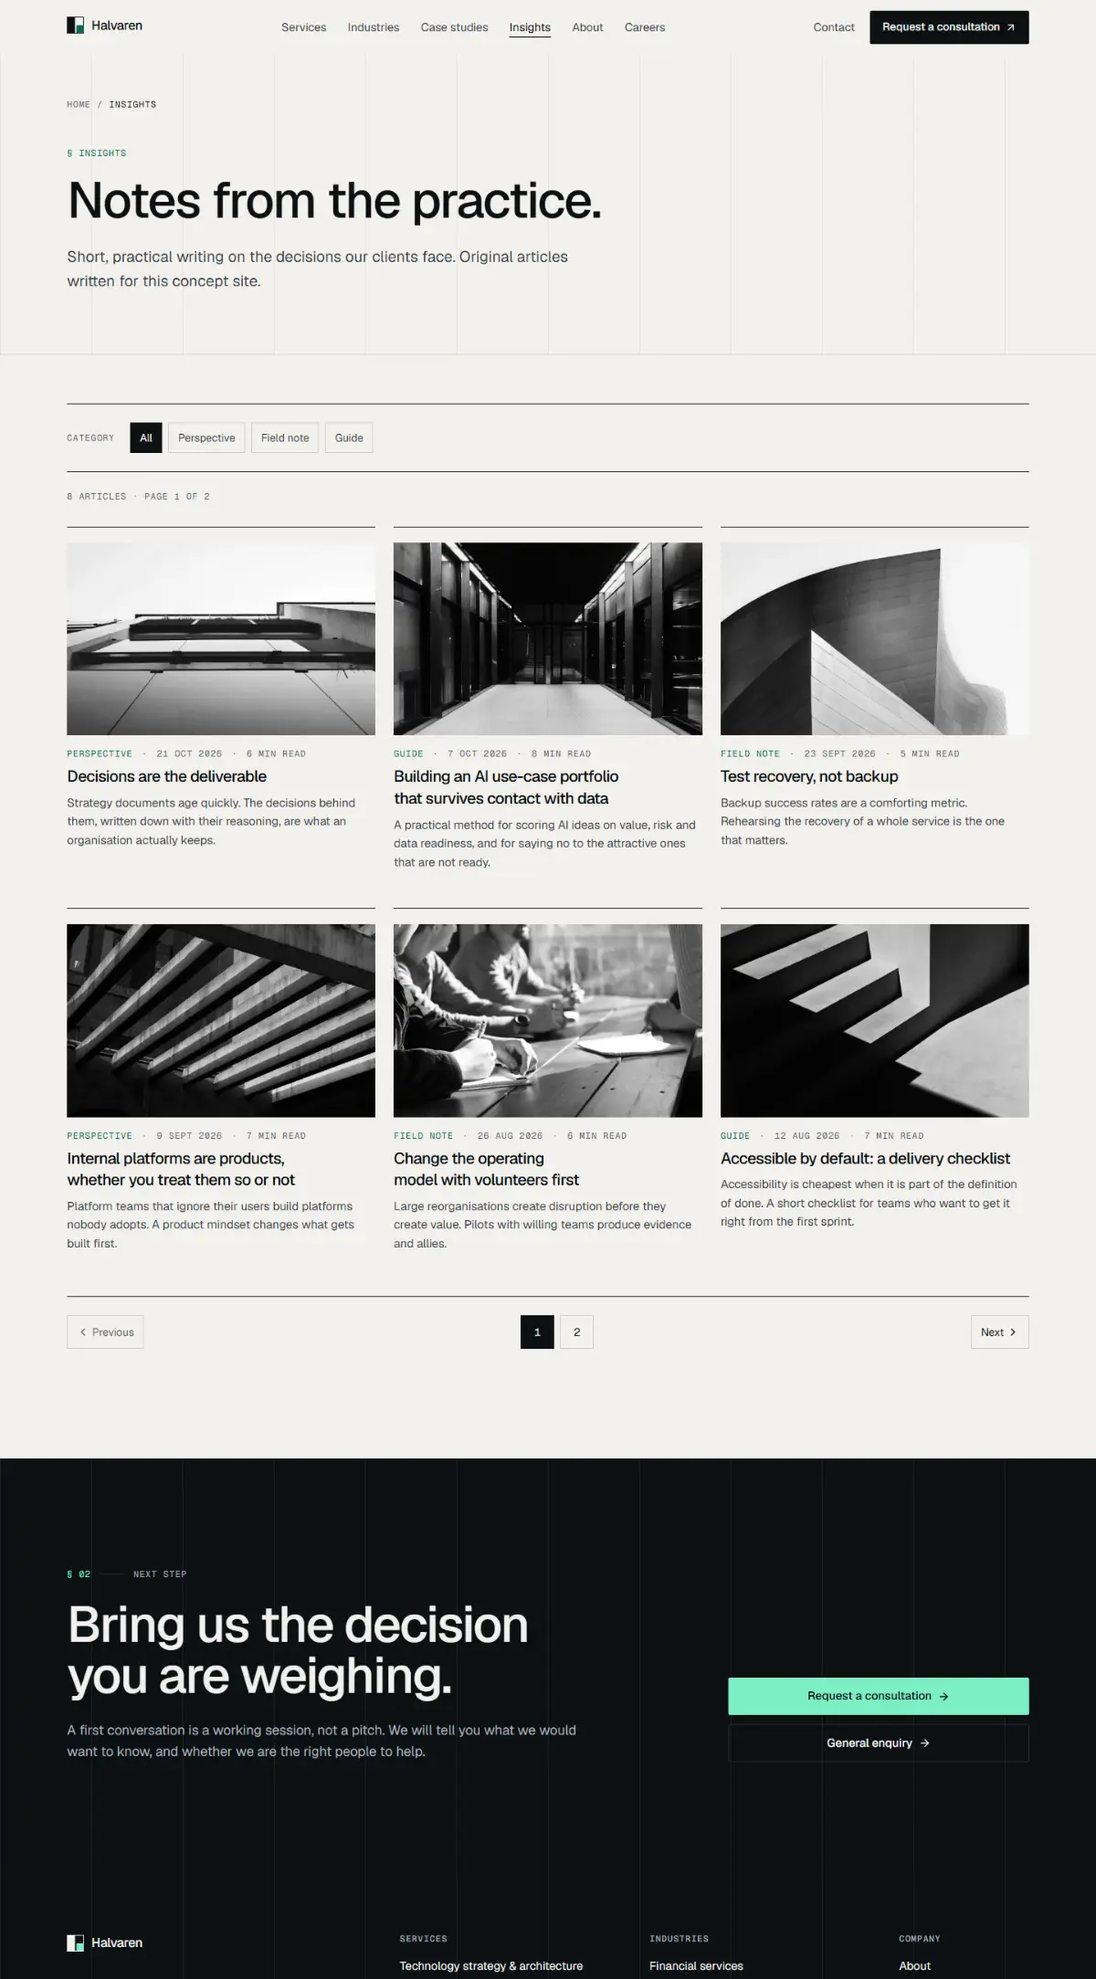
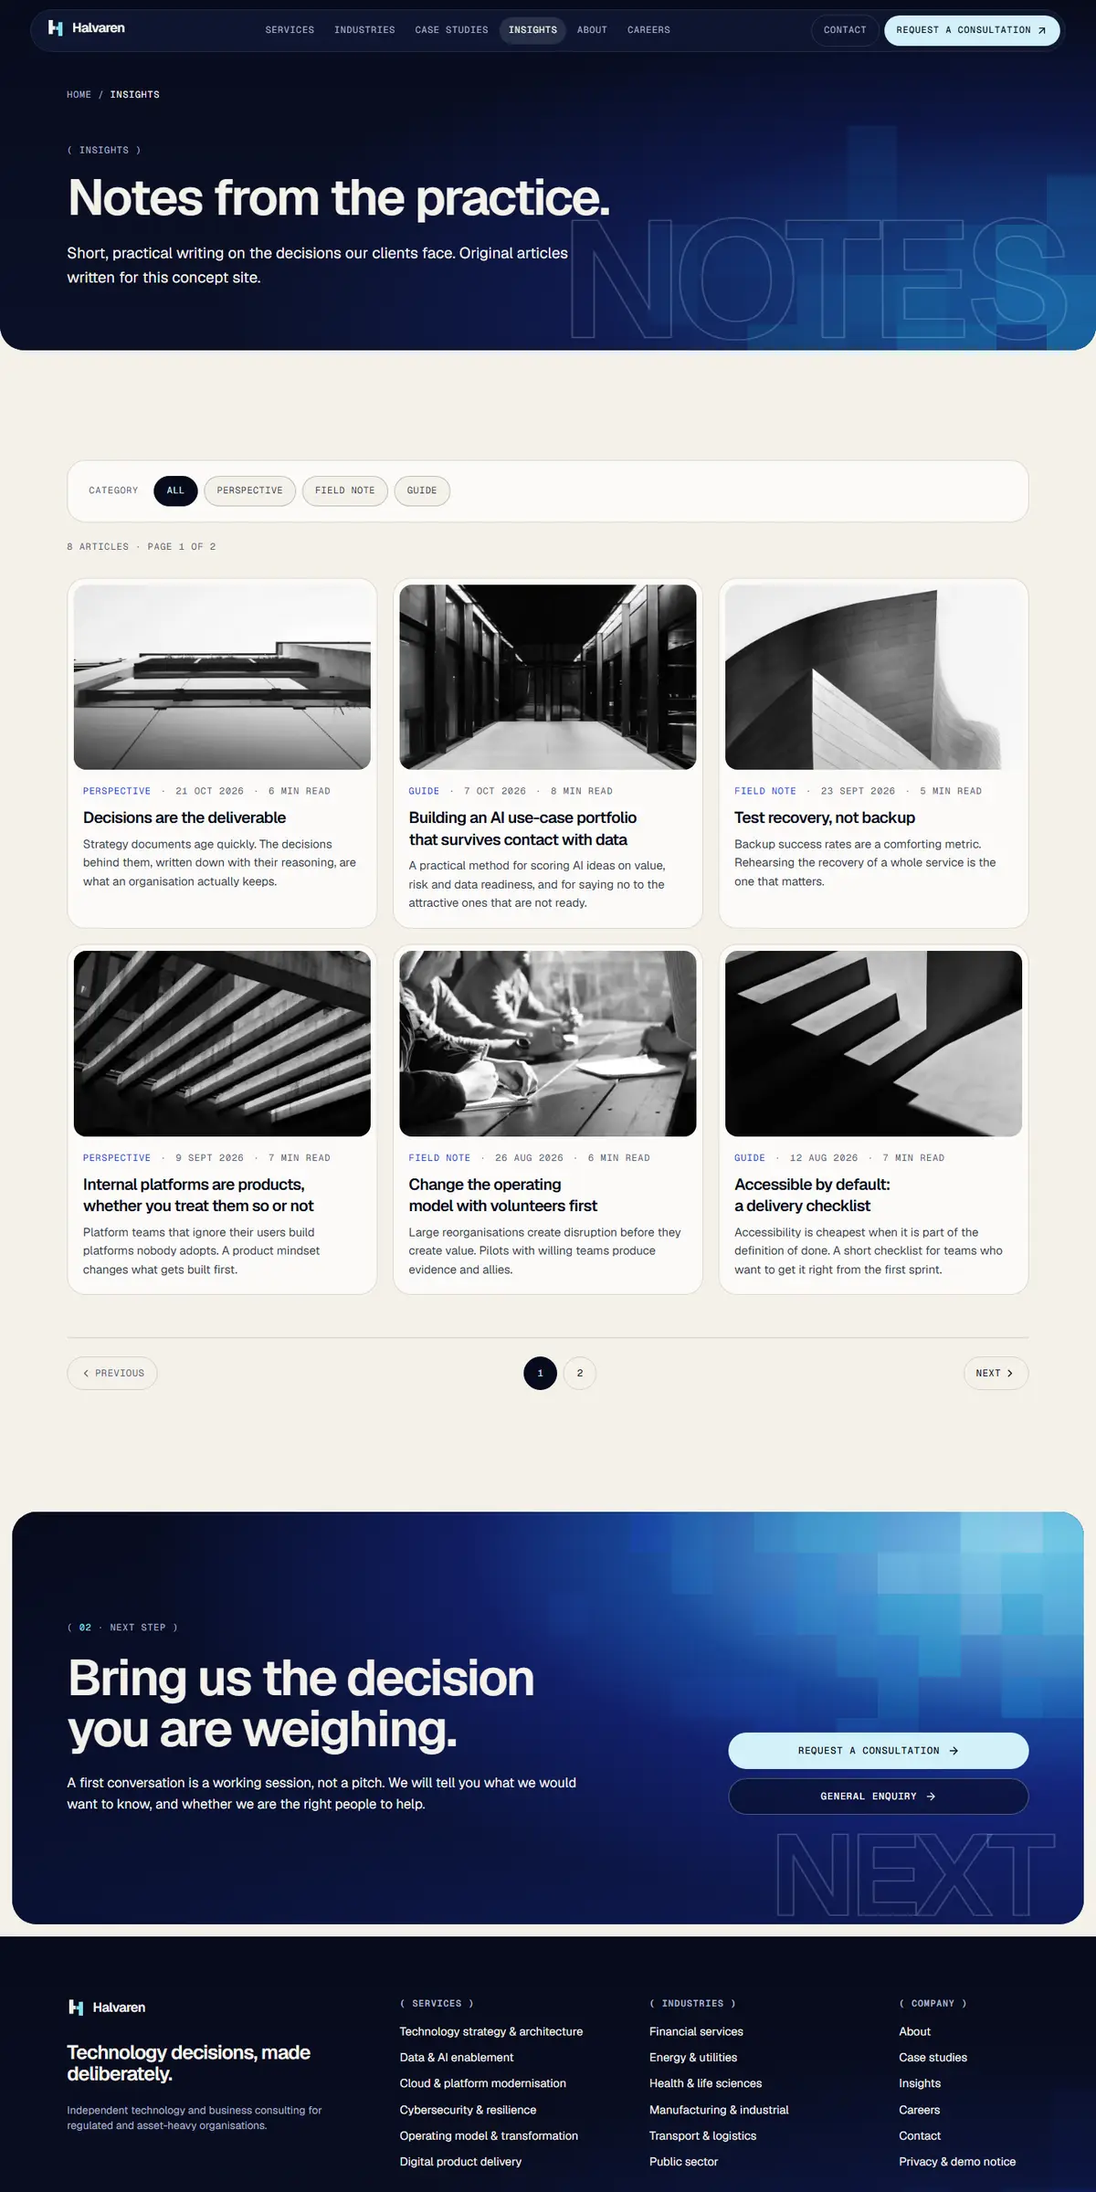
Refresh screenshots, docs and image sizing for the Aurora Ledger theme
Caps next/image deviceSizes at the 1400 px sources, raises micro labels to 12 px, shortens the Home meta description, replaces the portfolio screenshots and records slice 2 checks in the report and handoff.

diff --git a/components/layout/site-header.tsx b/components/layout/site-header.tsx
@@ -109,7 +109,7 @@ export function SiteHeader() {
                   <Link
                     href={item.href}
                     aria-current={active ? "page" : undefined}
-                    className={`inline-flex rounded-full px-3 py-2 font-mono text-[0.74rem] uppercase tracking-[0.07em] transition-colors ${
+                    className={`inline-flex rounded-full px-3 py-2 font-mono text-[0.75rem] uppercase tracking-[0.07em] transition-colors ${
                       active ? "bg-ice/12 text-paper" : "text-mist hover:text-paper"
                     }`}
                   >
@@ -124,7 +124,7 @@ export function SiteHeader() {
         <div className="flex items-center gap-1.5">
           <Link
             href="/contact"
-            className={`hidden rounded-full border px-4 py-2.5 font-mono text-[0.74rem] uppercase tracking-[0.07em] transition-colors lg:inline-flex ${
+            className={`hidden rounded-full border px-4 py-2.5 font-mono text-[0.75rem] uppercase tracking-[0.07em] transition-colors lg:inline-flex ${
               isActive(pathname, "/contact") ? "border-ice/40 text-paper" : "border-ice/15 text-mist hover:border-ice/40 hover:text-paper"
             }`}
             aria-current={isActive(pathname, "/contact") ? "page" : undefined}
@@ -133,7 +133,7 @@ export function SiteHeader() {
           </Link>
           <Link
             href="/consultation"
-            className="group hidden items-center gap-1.5 rounded-full bg-ice px-4 py-2.5 font-mono text-[0.74rem] font-medium uppercase tracking-[0.07em] text-ink transition-colors hover:bg-paper sm:inline-flex"
+            className="group hidden items-center gap-1.5 rounded-full bg-ice px-4 py-2.5 font-mono text-[0.75rem] font-medium uppercase tracking-[0.07em] text-ink transition-colors hover:bg-paper sm:inline-flex"
           >
             Request a consultation
             <ArrowUpRight aria-hidden="true" className="size-4 transition-transform group-hover:-translate-y-0.5 group-hover:translate-x-0.5" />

diff --git a/components/ui/primitives.tsx b/components/ui/primitives.tsx
@@ -103,7 +103,7 @@ export function Plate({
 export function Tag({ children, dark = false }: { children: ReactNode; dark?: boolean }) {
   return (
     <span
-      className={`inline-flex items-center rounded-full border px-2.5 py-1 font-mono text-[0.7rem] uppercase tracking-[0.06em] ${
+      className={`inline-flex items-center rounded-full border px-2.5 py-1 font-mono text-[0.75rem] uppercase tracking-[0.06em] ${
         dark ? "border-rule-dark text-mist" : "border-rule text-graphite"
       }`}
     >
@@ -114,7 +114,7 @@ export function Tag({ children, dark = false }: { children: ReactNode; dark?: bo
 
 export function IllustrativeBadge({ long = false }: { long?: boolean }) {
   return (
-    <span className="inline-flex items-center gap-1.5 rounded-full bg-ink px-2.5 py-1 font-mono text-[0.7rem] uppercase tracking-[0.06em] text-phosphor">
+    <span className="inline-flex items-center gap-1.5 rounded-full bg-ink px-2.5 py-1 font-mono text-[0.75rem] uppercase tracking-[0.06em] text-phosphor">
       <FlaskConical aria-hidden="true" className="size-3.5" />
       {long ? "Illustrative scenario — not a real client" : "Illustrative scenario"}
     </span>

diff --git a/components/sections/roles-accordion.tsx b/components/sections/roles-accordion.tsx
@@ -29,7 +29,7 @@ export function RolesAccordion({ roles }: { roles: Role[] }) {
               >
                 <span className="text-[1.3rem] leading-tight tracking-[-0.02em] md:text-[1.5rem]">
                   {r.title}
-                  <span className="ml-3 inline-block rounded-full bg-ink px-2 py-0.5 align-middle font-mono text-[0.68rem] uppercase tracking-[0.06em] text-ice">
+                  <span className="ml-3 inline-block rounded-full bg-ink px-2 py-0.5 align-middle font-mono text-[0.75rem] uppercase tracking-[0.06em] text-ice">
                     Demo role
                   </span>
                 </span>

diff --git a/components/layout/site-footer.tsx b/components/layout/site-footer.tsx
@@ -81,7 +81,7 @@ export function SiteFooter() {
         <div className="mt-6 grid gap-4 border-t border-rule-dark pt-6 text-sm text-mist md:grid-cols-[1fr_auto] md:items-end">
           <div>
             <p className="font-medium text-paper">
-              <span className="mr-2 inline-block rounded-full bg-ice px-2 py-0.5 font-mono text-[0.7rem] uppercase tracking-[0.08em] text-ink">
+              <span className="mr-2 inline-block rounded-full bg-ice px-2 py-0.5 font-mono text-[0.75rem] uppercase tracking-[0.08em] text-ink">
                 Concept
               </span>
               {site.conceptNotice}

diff --git a/app/page.tsx b/app/page.tsx
@@ -20,7 +20,7 @@ export const metadata: Metadata = {
   ...pageMetadata({
     title: "Independent technology & business consulting",
     description:
-      "Halvaren (a fictional VIZAM concept firm) helps regulated and asset-heavy organisations make technology decisions deliberately: strategy, data and AI, cloud, resilience and delivery.",
+      "Halvaren, a fictional VIZAM concept firm, helps regulated and asset-heavy organisations make technology decisions deliberately.",
     path: "/",
   }),
   title: { absolute: `${site.name} — ${site.tagline}` },

diff --git a/app/globals.css b/app/globals.css
@@ -39,7 +39,7 @@
   --text-display--line-height: 1;
   --text-h2: clamp(1.75rem, 3.2vw, 2.75rem);
   --text-h2--line-height: 1.06;
-  --text-micro: 0.72rem;
+  --text-micro: 0.75rem;
   --text-micro--line-height: 1.4;
 
   --radius-card: 1.5rem;
@@ -146,7 +146,7 @@
 
   .mono-label {
     font-family: var(--font-mono);
-    font-size: 0.72rem;
+    font-size: 0.75rem;
     line-height: 1.4;
     letter-spacing: 0.08em;
     text-transform: uppercase;

diff --git a/next.config.ts b/next.config.ts
@@ -31,6 +31,9 @@ const nextConfig: NextConfig = {
   poweredByHeader: false,
   images: {
     formats: ["image/avif", "image/webp"],
+    // Never advertise a width above the largest source photo (1400 px): a larger srcset candidate would be
+    // served at 1400 px anyway while the browser assumes it is bigger.
+    deviceSizes: [480, 640, 750, 828, 1080, 1200, 1400],
   },
   turbopack: {
     rules: {

diff --git a/docs/report.md b/docs/report.md
@@ -10,8 +10,11 @@ concept, not a client commission._
 - **Content:** typed local content in `lib/content` (services, industries, case studies, insights, careers, images), CMS-ready,
   no CMS connected. 42 static pages, plus sitemap, robots, a generated Open Graph image and JSON-LD.
 - **Forms:** `lib/forms` holds Zod schemas, server actions and shared processing (honeypot, timing check, rate limit, validation).
-- **Design:** original direction, no external reference (see `docs/design-direction.md`, `docs/plan.md`). Porcelain-and-ink
-  palette, one phosphor accent, visible coordinate grid, mono section indices, "decision records" as the signature component.
+- **Design (theme 2, "Aurora Ledger", branch `vizam/theme-refresh`):** midnight base with cobalt-teal-ice gradient and pixel-mosaic
+  fields (`GradientField`), warm paper sections, huge tight headings, mono bracket labels, ghost numerals, rounded bento cards,
+  floating pill navigation, split-H monogram, "decision records" as the signature component. Every page uses the same primitives
+  with its own composition (aurora headers on Home, About, Services, Case studies, Consultation and 404; ink headers elsewhere;
+  light header on Privacy and articles). Spec: `docs/design-direction.md`. Theme 1 (porcelain and phosphor) is superseded.
   No logos, testimonials or statistics are shown, because none exist. Photography: Unsplash only (public repo), WebP only,
   credited in `docs/media-credits.md`. No video, voice or AI images.
 - **Layout rule:** below 250 px the layout locks at 500 px and pans (`#root` in `app/layout.tsx`), as required by project rules.
@@ -22,7 +25,28 @@ All planned pages and components are built, tested and committed on the build br
 sign-off are done (verdict: SIGN-OFF, see section 4). Not yet done: integration into `vizam/initial-build`, push, PR, Vercel preview, and any deploy.
 Lighthouse / performance measurement has **not** been run.
 
-## 3. Checks (run 2026-11-06, real output, Slice 1)
+## 3a. Checks, theme refresh slice 2 (2026-11-08, branch `vizam/theme-refresh`, real output)
+
+| Check | Command | Result |
+|---|---|---|
+| Lint | `npm run lint` | pass, no warnings |
+| Typecheck | `npm run typecheck` | pass |
+| Unit | `npm test` | pass, 5 files, 45 tests |
+| Build | `npm run build` | pass, 42 static pages |
+| E2E + axe | `npx playwright test` (production build, port 3105) | pass, 79/79 (6.1 min) |
+| Audit | `npm audit` | 0 vulnerabilities |
+| Secret scan | `node scripts/secret-scan.mjs` | pass: 132 tree files, 26 commits, 17 rules, none found |
+| Quality gate | `gate.mjs --skip build,e2e` | 0 FAIL, 0 WARN: no horizontal scroll from 300 px (36 routes), 500 px lock below 250 px, no console errors, no broken images, equal-height cards, 52 internal links, tracked-file check |
+| Content QA | `content-qa.mjs` (36 routes) | 0 FAIL, 213 WARN (kept, see below) |
+
+Content QA fixes made in this slice: upscaled-image FAILs (22) traced to Next advertising srcset widths above the 1400 px
+sources, fixed with `images.deviceSizes` capped at 1400; Home meta description shortened from 182 to under 160 characters; micro
+labels raised to 12 px (11 px warnings gone). WARNs kept: "slightly soft on retina" (125, computed from the `sizes` hint, delivered
+images are at least 2x the slot); "same image twice on a page" (industry photos reused by their scenario or service cards, 25 or so);
+"testimonial" on About and Privacy (the copy says none exist). I looked at the Home and Insights contact sheets and full-page
+screenshots of every route at 240, 300, 390, 768 (and 1440 for all pages). Lighthouse and manual assistive-technology testing: not run.
+
+## 3. Checks (run 2026-11-06, real output, Slice 1, theme 1 for reference)
 
 | Check | Command | Result |
 |---|---|---|

diff --git a/README.md b/README.md
@@ -4,10 +4,12 @@
 > concept. It has no clients, staff or offices. Case studies are **illustrative scenarios**, job listings are
 > **demos**, and the contact and consultation forms are **demo submissions** that are validated and then discarded.
 
-A premium corporate website for a fictional international technology and business consultancy. The identity is a
-"measured page": a porcelain-and-ink palette with one phosphor accent, a visible coordinate grid, mono section
-indices and **decision records** as the signature component — credibility through structure, not through logos,
-testimonials or statistics (none are shown, because none exist).
+A premium corporate website for a fictional international technology and business consultancy. The identity is
+**"Aurora Ledger"** (theme 2): a midnight base lit by cobalt-to-teal-to-ice gradient and pixel-mosaic fields, warm paper
+sections, very large tight headings, mono bracket labels, ghost numerals, rounded bento cards, a floating pill
+navigation and a split-H monogram — with **decision records** as the signature component. Credibility comes through
+structure, not through logos, testimonials or statistics (none are shown, because none exist). The theme was driven by
+two mood references (characteristics only: no content, branding or colour was reused). Spec: `docs/design-direction.md`.
 
 ## Stack
 
@@ -49,10 +51,10 @@ the absolute origin used in canonical URLs, Open Graph and the sitemap; it defau
 ```
 app/                 routes, metadata, sitemap/robots/OG image, error/loading/404
 components/layout    header + accessible mobile menu, footer, skip link
-components/motion    GSAP: word reveal, grid draw-in, scroll-linked statement, method timeline
+components/motion    GSAP: word reveal, hero glyph, scroll-linked statement, method timeline
 components/sections  cards, filters/pagination browsers, page header, CTA band, roles accordion
 components/forms     contact + consultation forms (RHF + Zod), field primitives, demo receipt
-components/ui        primitives (plates, tags, badges), decision record, pagination, logo
+components/ui        primitives (Card, Section, labels, buttons), GradientField, GhostNumeral, decision record, pagination, logo
 lib/content          typed, CMS-ready content (services, industries, case studies, insights, careers, images)
 lib/forms            Zod schemas, server actions, honeypot/timing/rate-limit processing
 docs/                design direction, plan, report, handoff, media credits, screenshots
@@ -66,7 +68,8 @@ tests/unit, tests/e2e
 - `docs/report.md` — implementation report: checks with results, security, accessibility, performance, limitations
 - `docs/AGENT_HANDOFF.md` — current status and next steps (`docs/handoff.md` points to it)
 - `docs/media-credits.md` — Unsplash photographer credits
-- `docs/screenshots/` — WebP screenshots at 240 (500 px lock), 390, 768 and 1440 px
+- `docs/screenshots/` — Aurora Ledger WebP screenshots (Home, a service page, case studies, insights, consultation, menus,
+  Home hero) at 240 (500 px lock), 390, 768 and 1440 px
 
 ## Deployment
 
@@ -75,6 +78,6 @@ project to be linked by the owner, and production deploys need approval. See `do
 
 ## Credits and licence notes
 
-Photography from [Unsplash](https://unsplash.com) under the Unsplash License — photographers credited in
+Photography (14 images) from [Unsplash](https://unsplash.com) under the Unsplash License — photographers credited in
 `docs/media-credits.md`. Only compressed WebP derivatives are committed. The wordmark, diagrams and all copy are
 original work for this concept. Designed and built by VIZAM.

diff --git a/docs/design-direction.md b/docs/design-direction.md
@@ -92,11 +92,11 @@ used (both ≥ 5.3:1 even on full cobalt).
 
 - **Geist** (variable, via `next/font`, self-hosted, no external requests). Headings weight 600, tracking −0.035em.
   The hero heading is uppercase, line-height 0.92.
-- **Geist Mono** for micro labels, nav links, buttons, tags and metadata: uppercase, 0.72–0.8rem, +0.06–0.08em.
+- **Geist Mono** for micro labels, nav links, buttons, tags and metadata: uppercase, 0.75–0.8rem, +0.06–0.08em.
 - **Newsreader (serif) dropped**: the new identity is all-grotesque; Insights articles use Geist at 1.125rem / 1.7.
 - Scale (`clamp()`): hero `clamp(1.9rem, 9.4vw, 4.75rem)`, from 1024 px `clamp(3.5rem, 5.5vw, 6.5rem)` (sized so
   "DELIBERATELY." fits its column at 300 px); display-xl `clamp(2.6rem, 7.2vw, 6.6rem)`; display
-  `clamp(2.1rem, 4.6vw, 4.2rem)`; h2 `clamp(1.75rem, 3.2vw, 2.75rem)`; body 1.0625rem / 1.6; micro 0.72rem.
+  `clamp(2.1rem, 4.6vw, 4.2rem)`; h2 `clamp(1.75rem, 3.2vw, 2.75rem)`; body 1.0625rem / 1.6; micro 0.75rem.
 
 ## 6. Spacing, layout and shape
 
@@ -152,14 +152,23 @@ Purposeful, quiet, mechanical; never bouncy; no infinite loops (WCAG 2.2.2).
 | `SectionIndex` | `components/ui/primitives.tsx` | `( 02 · Services )` label above every section heading |
 | `MicroLabel` | `components/ui/primitives.tsx` | Free bracketed mono line, e.g. hero kicker |
 | `LinkButton` | `components/ui/primitives.tsx` | Pill buttons: `primary`, `secondary` (light), `on-dark`, `ghost-dark` |
+| `PageHeader` | `components/sections/page-header.tsx` | Every inner page. `tone`: `aurora` (bright field, key pages), `ink` (quiet field), `paper` (light, long-form). Optional `ghost` word and `size` |
+| `CtaBand` | `components/sections/cta-band.tsx` | Closing rounded aurora panel inside a paper strip, ends every page except Contact, Consultation and Privacy |
+| `ServicesIndex` | `components/sections/cards.tsx` | Bento of six service cards with aurora ghost index; `feature` makes cards 0, 3 and 5 wide on desktop |
 | `Tag`, `IllustrativeBadge`, `Notice`, `TextLink`, `Plate` | `components/ui/primitives.tsx` | Pill tags, labels, rounded notice and photo frame |
 | `.bg-aurora`, `.aurora-rule`, `.pill` | `app/globals.css` | Gradient fill, gradient hairline, full radius |
+
+Slice 2 applied this to every page (2026-11-08). Section rhythm used: paper → paper-2 → dark ink band → paper → ice-field band →
+dark aurora band → paper → aurora CTA panel. Aurora headers: Home, About, Services, Case studies, Consultation, 404; ink
+headers: Industries, Insights, Careers, Contact and the detail pages; paper header: Privacy; the article header is paper with
+an ice field. Dark-band cards are `Card tone="ink"` or `"glass"`; text inside a header or band that inherits `text-paper`
+must sit on a card that sets its own colour (`Notice` sets `text-ink`).
 
 Page recipe: a page header on `ink` or `aurora` with a `GradientField` (focus away from the heading) and the
 heading in `text-display-xl`; light content sections on `paper`/`paper-2` with `SectionIndex` + `text-h2`; lists
 of items as bento grids of `Card` (equal height, `data-card` kept for the layout test); at most one aurora-tone
-section between light ones; end with the dark CTA band and footer. Retire `grid-hairlines`, `DrawLines` and
-square `rounded-[2px]` corners as pages are restyled.
+section between light ones; end with the dark CTA band and footer. `grid-hairlines`, `DrawLines` and square `rounded-[2px]`
+corners are retired (removed in slice 2).
 
 ## 11. Accessibility stance
 

diff --git a/docs/AGENT_HANDOFF.md b/docs/AGENT_HANDOFF.md
@@ -1,6 +1,6 @@
 # Agent handoff — vizam-05-tech-consulting (Halvaren, VIZAM concept project 05)
 
-_Last updated: 2026-11-08 by the theme-refresh slice 1 agent (design direction, tokens, global shell)_
+_Last updated: 2026-11-08 by the theme-refresh slice 2 agent (all pages and shared components restyled)_
 
 ## Objective
 Premium corporate site for a fictional international technology and business consulting firm ("Halvaren
@@ -70,7 +70,15 @@ Advisory"), built as a VIZAM portfolio concept. Fictional company: say so in the
 Home screenshots at 240/390/768/1440 (normal and reduced motion) and menus checked by eye; no overflow from 300 px,
 `#root` 500 px at 240 px.
 
-### Slice 2 (next): restyle the remaining pages with the system
+### Slice 2 done (2026-11-08): all pages and shared components restyled
+Page header (tones aurora/ink/paper, ghost word), CTA panel, bento cards, pill forms, decision record, pagination, accordion,
+filters; Home 01-08; about, services (+detail), industries (+detail), case studies (+detail), insights (+articles), careers,
+contact, consultation, privacy, 404/error/loading; Open Graph image. `images.hero` dropped (file, entry and credit removed; 14
+Unsplash WebP remain). `DrawLines` and `.grid-hairlines` removed. `next.config.ts` caps `images.deviceSizes` at 1400. Mono labels
+now 12 px. Screenshots in `docs/screenshots/` refreshed (26 WebP incl. `home-hero-*`). Checks table: `docs/report.md` section 3a.
+Gate: lint, typecheck, 45 unit, build, 79/79 e2e, audit 0, secret scan, quality gate 0 FAIL, content QA 0 FAIL. No push/PR/deploy.
+
+### Slice 2 plan (kept for reference)
 Use `docs/design-direction.md` §10. Replace `grid-hairlines`, `DrawLines`, `rounded-[2px]`, `§` indices:
 - Shared: `components/sections/page-header.tsx` (dark/aurora header with GradientField), `cta-band.tsx` (aurora),
   `cards.tsx` (Card surfaces, keep `data-card` + equal height), `components/forms/*` (rounded fields, pill submit),
@@ -126,8 +134,8 @@ Phase D re-run after fixes: lint pass; typecheck pass; `npm test` 40/40; build p
 79/79 (12.0 min, port 3105); `npm audit` 0 vulnerabilities; secret scan pass (127 files, 18 commits, 17 rules).
 
 ## Next step
-Theme refresh slice 2 (Sonnet): restyle the pages listed above on `vizam/theme-refresh`, starting with
-`page-header.tsx`, `cta-band.tsx` and `cards.tsx`, then Home sections 01–08.
+Steeven reviews `vizam/theme-refresh` (taste). Then, on approval: push the branch, open the PR, optional Vercel preview. Not done:
+Lighthouse, manual assistive-tech test, portfolio video refresh.
 
 ## Waiting for approval
 - Vercel link/preview and any production deploy (Steeven).
